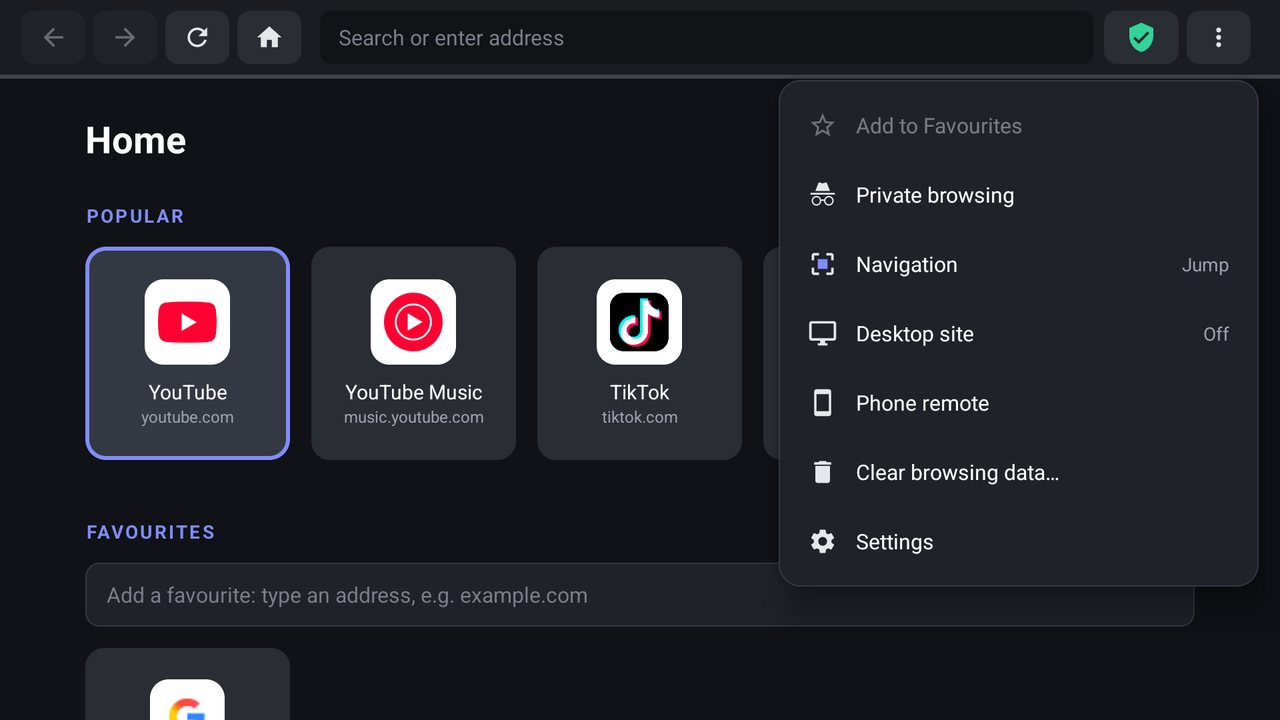
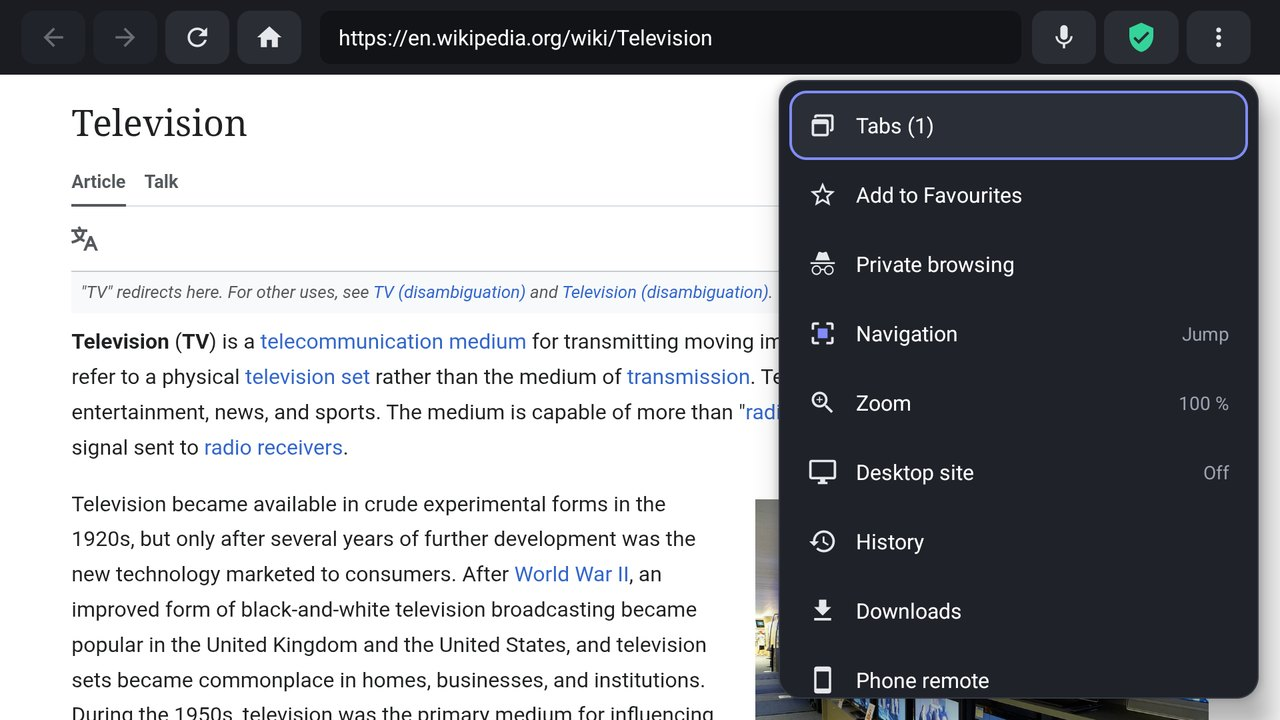
mkTV 1.2.0: tabs, downloads, zoom and favourites cards; new screenshots; phone remote safety FAQ

diff --git a/index.html b/index.html
@@ -39,19 +39,19 @@
     {
       "@type": "SoftwareApplication",
       "name": "mkTV",
-      "description": "Open-source web browser for Android TV and Google TV with ad and tracker blocking, D-pad jump navigation, full-screen watch mode, YouTube TV mode, private browsing and a QR-code phone remote.",
+      "description": "Open-source web browser for Android TV and Google TV with ad and tracker blocking, D-pad jump navigation, tabs, downloads, per-site zoom, full-screen watch mode, YouTube TV mode, private browsing and a QR-code phone remote.",
       "applicationCategory": "BrowserApplication",
       "operatingSystem": "Android TV, Google TV (Android 7.0 or newer)",
       "url": "https://mktvhub.github.io/",
       "downloadUrl": "https://github.com/MKTVHub/mkTV/releases/latest/download/mkTV.apk",
-      "softwareVersion": "1.0.1",
-      "fileSize": "4.7 MB",
+      "softwareVersion": "1.2.0",
+      "fileSize": "5 MB",
       "codeRepository": "https://github.com/MKTVHub/mkTV",
       "license": "https://www.apache.org/licenses/LICENSE-2.0",
       "isAccessibleForFree": true,
       "offers": { "@type": "Offer", "price": "0", "priceCurrency": "USD" },
       "image": "https://mktvhub.github.io/assets/og.png",
-      "screenshot": ["https://mktvhub.github.io/assets/screens/home.jpg", "https://mktvhub.github.io/assets/screens/jump-navigation.jpg", "https://mktvhub.github.io/assets/screens/watch-mode.jpg", "https://mktvhub.github.io/assets/screens/ad-blocker.jpg", "https://mktvhub.github.io/assets/screens/phone-remote-qr.jpg"],
+      "screenshot": ["https://mktvhub.github.io/assets/screens/home.jpg", "https://mktvhub.github.io/assets/screens/jump-navigation.jpg", "https://mktvhub.github.io/assets/screens/tabs.jpg", "https://mktvhub.github.io/assets/screens/watch-mode.jpg", "https://mktvhub.github.io/assets/screens/ad-blocker.jpg", "https://mktvhub.github.io/assets/screens/downloads.jpg", "https://mktvhub.github.io/assets/screens/phone-remote-qr.jpg", "https://mktvhub.github.io/assets/screens/settings.jpg", "https://mktvhub.github.io/assets/screens/zoom.jpg"],
       "publisher": { "@id": "https://mktvhub.github.io/#org" }
     },
     {
@@ -70,15 +70,17 @@
         { "@type": "Question", "name": "What is the best way to browse the web on Android TV?",
           "acceptedAnswer": { "@type": "Answer", "text": "Use a browser designed for the remote. In mkTV the arrow keys jump between links, buttons and videos, so there is no slow mouse pointer, and you can type on your phone instead of the on-screen keyboard." } },
         { "@type": "Question", "name": "Does mkTV block ads?",
-          "acceptedAnswer": { "@type": "Answer", "text": "Yes. mkTV blocks more than 77,000 known ad and tracker domains, removes pop-ups and click-trap overlays, and strips tracking codes from links. On YouTube it removes ad slots and skips video ads where it can, but no ad blocker catches every ad." } },
+          "acceptedAnswer": { "@type": "Answer", "text": "Yes. mkTV blocks more than 77,000 known ad and tracker domains, removes pop-ups and click-trap overlays, and strips tracking codes from links. On YouTube it removes ad slots and skips video ads where it can, but no ad blocker catches every ad. You can turn on more blocklists, such as OISD or HaGeZi, or add your own." } },
         { "@type": "Question", "name": "Can I use my phone as a remote and keyboard for my TV browser?",
           "acceptedAnswer": { "@type": "Answer", "text": "Yes. Open the ⋮ menu in mkTV, choose Phone remote and scan the QR code. Your phone's browser becomes a D-pad, media remote and keyboard. No app install is needed; both devices must be on the same Wi-Fi." } },
         { "@type": "Question", "name": "Is mkTV free?",
           "acceptedAnswer": { "@type": "Answer", "text": "Yes. mkTV is free and open source under the Apache 2.0 license, with no accounts, no analytics and no ads of its own." } },
         { "@type": "Question", "name": "Does mkTV work on Fire TV, LG or Samsung TVs?",
           "acceptedAnswer": { "@type": "Answer", "text": "mkTV runs on Android TV and Google TV. Fire TV runs Android and may work by sideloading, but it is untested. LG webOS and Samsung Tizen ports are planned and open to contributors." } },
+        { "@type": "Question", "name": "Is the phone remote safe?",
+          "acceptedAnswer": { "@type": "Answer", "text": "The remote needs the pairing code from the TV's QR code, and it only reaches the TV from the same network, so use it on your home Wi-Fi, not guest or public Wi-Fi. The Devices tab in Phone remote shows which phones are connected and can disconnect one. New code unpairs every phone at once." } },
         { "@type": "Question", "name": "The phone remote says \"This site can't be reached\". What do I do?",
-          "acceptedAnswer": { "@type": "Answer", "text": "Put the phone on the same Wi-Fi as the TV, turn off mobile data and any VPN or ad blocker on the phone, and scan the QR code that is on the TV now, because it changes each time mkTV restarts. Some routers, often on guest networks, stop Wi-Fi devices from seeing each other." } },
+          "acceptedAnswer": { "@type": "Answer", "text": "Put the phone on the same Wi-Fi as the TV, turn off mobile data and any VPN or ad blocker on the phone, and scan the QR code that is on the TV now. After New code, old links stop working. Some routers, often on guest networks, stop Wi-Fi devices from seeing each other." } },
         { "@type": "Question", "name": "Chrome switches the phone remote link to https. What do I do?",
           "acceptedAnswer": { "@type": "Answer", "text": "Tap Continue to site, or turn off Always use secure connections in Chrome's settings. mkTV refuses https on purpose, so the browser falls back to http." } },
         { "@type": "Question", "name": "Does mkTV work with a VPN on the TV?",
@@ -252,9 +254,9 @@
         <a class="btn primary" href="https://github.com/MKTVHub/mkTV/releases/latest/download/mkTV.apk"><svg viewBox="0 0 24 24" width="18" height="18" fill="none" stroke="currentColor" stroke-width="2.2" stroke-linecap="round" stroke-linejoin="round" aria-hidden="true"><path d="M12 3v12M7 10l5 5 5-5M4 20h16"/></svg>Download APK</a>
         <a class="btn secondary" href="https://github.com/MKTVHub/mkTV"><span aria-hidden="true">★</span> Star on GitHub<span class="stars" hidden></span></a>
       </div>
-      <p class="meta">Version 1.0.1 · 4.7 MB · Android 7.0+</p>
+      <p class="meta">Version 1.2.0 · 5 MB · Android 7.0+</p>
     </div>
-    <div class="tv"><img src="assets/screens/home.jpg" width="1280" height="720" fetchpriority="high" alt="mkTV home screen on a Google TV with big tiles for YouTube, YouTube Music, TikTok, Twitch and Dailymotion"></div>
+    <div class="tv"><img src="assets/screens/home.jpg" width="1280" height="720" fetchpriority="high" alt="mkTV home screen on a Google TV: the mkTV logo, Phone remote, History and Private browsing buttons, and Popular tiles for YouTube, Netflix, Prime Video, Disney+, Spotify, YouTube Music, Twitch and TikTok"></div>
   </div>
 </section>
 
@@ -275,11 +277,14 @@
     <p class="sub">Websites expect a mouse. mkTV makes them work with a remote.</p>
     <ul class="features">
       <li class="feature"><svg viewBox="0 0 24 24" fill="none" stroke="currentColor" stroke-width="2" stroke-linecap="round" stroke-linejoin="round" aria-hidden="true"><rect x="3" y="3" width="18" height="18" rx="3"/><path d="M8 12h8M13 9l3 3-3 3"/></svg><h3>Jump navigation</h3><p>Arrow keys jump straight to the next link or button.</p></li>
-      <li class="feature"><svg viewBox="0 0 24 24" fill="none" stroke="currentColor" stroke-width="2" stroke-linecap="round" stroke-linejoin="round" aria-hidden="true"><path d="M12 3l8 3v6c0 4.5-3.4 8.2-8 9-4.6-.8-8-4.5-8-9V6z"/><path d="M8.5 12l2.5 2.5 4.5-5"/></svg><h3>Ads blocked</h3><p>Ads, trackers, pop-ups and click-traps, gone.</p></li>
-      <li class="feature"><svg viewBox="0 0 24 24" fill="none" stroke="currentColor" stroke-width="2" stroke-linecap="round" stroke-linejoin="round" aria-hidden="true"><rect x="2" y="4" width="20" height="14" rx="2.5"/><path d="M10 8.5v5l4-2.5z"/><path d="M8 21h8"/></svg><h3>Full-screen watch mode</h3><p>When a video plays, the remote controls it.</p></li>
-      <li class="feature"><svg viewBox="0 0 24 24" fill="none" stroke="currentColor" stroke-width="2" stroke-linecap="round" stroke-linejoin="round" aria-hidden="true"><rect x="6" y="2" width="12" height="20" rx="2.5"/><path d="M11 18h2"/></svg><h3>Phone as remote</h3><p>Scan a QR code to type and tap from your phone.</p></li>
+      <li class="feature"><svg viewBox="0 0 24 24" fill="none" stroke="currentColor" stroke-width="2" stroke-linecap="round" stroke-linejoin="round" aria-hidden="true"><path d="M12 3l8 3v6c0 4.5-3.4 8.2-8 9-4.6-.8-8-4.5-8-9V6z"/><path d="M8.5 12l2.5 2.5 4.5-5"/></svg><h3>Ads blocked</h3><p>Ads, trackers and pop-ups gone. Add more blocklists if you like.</p></li>
+      <li class="feature"><svg viewBox="0 0 24 24" fill="none" stroke="currentColor" stroke-width="2" stroke-linecap="round" stroke-linejoin="round" aria-hidden="true"><rect x="2" y="4" width="20" height="14" rx="2.5"/><path d="M10 8.5v5l4-2.5z"/><path d="M8 21h8"/></svg><h3>Full-screen watch mode</h3><p>Video fills the TV, and the remote controls it.</p></li>
+      <li class="feature"><svg viewBox="0 0 24 24" fill="none" stroke="currentColor" stroke-width="2" stroke-linecap="round" stroke-linejoin="round" aria-hidden="true"><rect x="6" y="2" width="12" height="20" rx="2.5"/><path d="M11 18h2"/></svg><h3>Phone as remote</h3><p>Scan a QR code for a touchpad, keyboard and volume.</p></li>
+      <li class="feature"><svg viewBox="0 0 24 24" fill="none" stroke="currentColor" stroke-width="2" stroke-linecap="round" stroke-linejoin="round" aria-hidden="true"><rect x="3" y="7" width="14" height="13" rx="2.5"/><path d="M7 4h11a3 3 0 0 1 3 3v9"/></svg><h3>Tabs</h3><p>Pop-ups you click open in a new tab, not over your page.</p></li>
+      <li class="feature"><svg viewBox="0 0 24 24" fill="none" stroke="currentColor" stroke-width="2" stroke-linecap="round" stroke-linejoin="round" aria-hidden="true"><path d="M12 3v12M7 10l5 5 5-5"/><path d="M4 20h16"/></svg><h3>Downloads</h3><p>Save files, install APKs and play videos you download.</p></li>
+      <li class="feature"><svg viewBox="0 0 24 24" fill="none" stroke="currentColor" stroke-width="2" stroke-linecap="round" stroke-linejoin="round" aria-hidden="true"><circle cx="11" cy="11" r="7"/><path d="M21 21l-5-5M11 8v6M8 11h6"/></svg><h3>Zoom per site</h3><p>Make any site bigger; mkTV remembers it.</p></li>
+      <li class="feature"><svg viewBox="0 0 24 24" fill="none" stroke="currentColor" stroke-width="2" stroke-linecap="round" stroke-linejoin="round" aria-hidden="true"><path d="M3 7a2 2 0 0 1 2-2h4l2 2h8a2 2 0 0 1 2 2v8a2 2 0 0 1-2 2H5a2 2 0 0 1-2-2z"/></svg><h3>Favourites your way</h3><p>Rename, reorder and group sites into folders.</p></li>
       <li class="feature"><svg viewBox="0 0 24 24" fill="none" stroke="currentColor" stroke-width="2" stroke-linecap="round" stroke-linejoin="round" aria-hidden="true"><rect x="4" y="10" width="16" height="11" rx="2.5"/><path d="M8 10V7a4 4 0 0 1 8 0v3"/></svg><h3>Private browsing</h3><p>A separate session, erased when you close it.</p></li>
-      <li class="feature"><svg viewBox="0 0 24 24" fill="none" stroke="currentColor" stroke-width="2" stroke-linecap="round" stroke-linejoin="round" aria-hidden="true"><path d="M3 12a9 9 0 1 0 3-6.7L3 8"/><path d="M3 3v5h5"/><path d="M12 7v5l3 2"/></svg><h3>History and updates</h3><p>Find any page again; new versions install in one press.</p></li>
     </ul>
   </div>
 </section>
@@ -289,12 +294,15 @@
     <h2 id="screens-title">See it on a real TV</h2>
     <p class="sub">Unedited screenshots from a Google TV.</p>
     <ul class="gallery">
+      <li><a href="assets/screens/home.jpg"><img src="assets/screens/home.jpg" width="1280" height="720" loading="lazy" alt="mkTV home screen with the mkTV logo, a soft violet glow, Popular tiles and Favourites"></a><p>Home</p></li>
       <li><a href="assets/screens/jump-navigation.jpg"><img src="assets/screens/jump-navigation.jpg" width="1280" height="720" loading="lazy" alt="mkTV jump navigation highlighting a link on a Wikipedia article"></a><p>Jump navigation</p></li>
+      <li><a href="assets/screens/tabs.jpg"><img src="assets/screens/tabs.jpg" width="1280" height="720" loading="lazy" alt="mkTV tab switcher open over a Wikipedia page, listing two tabs with close buttons and New tab"></a><p>Tabs</p></li>
       <li><a href="assets/screens/watch-mode.jpg"><img src="assets/screens/watch-mode.jpg" width="1280" height="720" loading="lazy" alt="mkTV watch mode dock over a playing video"></a><p>Watch mode</p></li>
       <li><a href="assets/screens/ad-blocker.jpg"><img src="assets/screens/ad-blocker.jpg" width="1280" height="720" loading="lazy" alt="mkTV ad blocker panel showing ads and trackers blocked on a website"></a><p>Ad blocker</p></li>
-      <li><a href="assets/screens/phone-remote-qr.jpg"><img src="assets/screens/phone-remote-qr.jpg" width="1280" height="720" loading="lazy" alt="mkTV phone remote pairing screen with a QR code"></a><p>Phone remote</p></li>
-      <li><a href="assets/screens/private-browsing.jpg"><img src="assets/screens/private-browsing.jpg" width="1280" height="720" loading="lazy" alt="mkTV private browsing screen"></a><p>Private browsing</p></li>
-      <li><a href="assets/screens/menu.jpg"><img src="assets/screens/menu.jpg" width="1280" height="720" loading="lazy" alt="mkTV menu with Add to Favourites, Private browsing, Navigation, Desktop site, Phone remote and Settings"></a><p>Menu</p></li>
+      <li><a href="assets/screens/downloads.jpg"><img src="assets/screens/downloads.jpg" width="1280" height="720" loading="lazy" alt="mkTV Downloads list with a downloaded PDF and Remove and Delete buttons"></a><p>Downloads</p></li>
+      <li><a href="assets/screens/phone-remote-qr.jpg"><img src="assets/screens/phone-remote-qr.jpg" width="1280" height="720" loading="lazy" alt="mkTV Phone remote panel with a QR code carrying the mkTV logo, Connect and Devices tabs, and a New code button"></a><p>Phone remote</p></li>
+      <li><a href="assets/screens/settings.jpg"><img src="assets/screens/settings.jpg" width="1280" height="720" loading="lazy" alt="mkTV Settings with a sidebar of sections and the Protection section open"></a><p>Settings</p></li>
+      <li><a href="assets/screens/zoom.jpg"><img src="assets/screens/zoom.jpg" width="1280" height="720" loading="lazy" alt="mkTV Zoom panel set to 110 percent, remembered for en.wikipedia.org"></a><p>Zoom</p></li>
     </ul>
     <p class="credits">Example content: Wikipedia (CC BY-SA), Merriam-Webster, and "Big Buck Bunny" © Blender Foundation (CC BY 3.0). Site names and logos belong to their owners; mkTV is not affiliated with them.</p>
   </div>
@@ -317,11 +325,12 @@
     <h2 id="faq-title">Questions</h2>
     <p class="sub">Help with setup and the phone remote.</p>
     <details><summary>What is the best way to browse the web on Android TV?</summary><p>Use a browser designed for the remote. In mkTV the arrow keys jump between links, buttons and videos, so there is no slow mouse pointer, and you can type on your phone instead of the on-screen keyboard.</p></details>
-    <details><summary>Does mkTV block ads?</summary><p>Yes. mkTV blocks more than 77,000 known ad and tracker domains, removes pop-ups and click-trap overlays, and strips tracking codes from links. On YouTube it removes ad slots and skips video ads where it can, but no ad blocker catches every ad.</p></details>
+    <details><summary>Does mkTV block ads?</summary><p>Yes. mkTV blocks more than 77,000 known ad and tracker domains, removes pop-ups and click-trap overlays, and strips tracking codes from links. On YouTube it removes ad slots and skips video ads where it can, but no ad blocker catches every ad. You can turn on more blocklists, such as OISD or HaGeZi, or add your own.</p></details>
     <details><summary>Can I use my phone as a remote and keyboard for my TV browser?</summary><p>Yes. Open the ⋮ menu in mkTV, choose Phone remote and scan the QR code. Your phone's browser becomes a D-pad, media remote and keyboard. No app install is needed; both devices must be on the same Wi-Fi.</p></details>
     <details><summary>Is mkTV free?</summary><p>Yes. mkTV is free and open source under the Apache 2.0 license, with no accounts, no analytics and no ads of its own.</p></details>
     <details><summary>Does mkTV work on Fire TV, LG or Samsung TVs?</summary><p>mkTV runs on Android TV and Google TV. Fire TV runs Android and may work by sideloading, but it is untested. LG webOS and Samsung Tizen ports are planned and open to contributors.</p></details>
-    <details><summary>The phone remote says "This site can't be reached". What do I do?</summary><p>Put the phone on the same Wi-Fi as the TV, turn off mobile data and any VPN or ad blocker on the phone, and scan the QR code that is on the TV now, because it changes each time mkTV restarts. Some routers, often on guest networks, stop Wi-Fi devices from seeing each other.</p></details>
+    <details><summary>Is the phone remote safe?</summary><p>The remote needs the pairing code from the TV's QR code, and it only reaches the TV from the same network, so use it on your home Wi-Fi, not guest or public Wi-Fi. The Devices tab in Phone remote shows which phones are connected and can disconnect one. New code unpairs every phone at once.</p></details>
+    <details><summary>The phone remote says "This site can't be reached". What do I do?</summary><p>Put the phone on the same Wi-Fi as the TV, turn off mobile data and any VPN or ad blocker on the phone, and scan the QR code that is on the TV now. After New code, old links stop working. Some routers, often on guest networks, stop Wi-Fi devices from seeing each other.</p></details>
     <details><summary>Chrome switches the phone remote link to https. What do I do?</summary><p>Tap Continue to site, or turn off Always use secure connections in Chrome's settings. mkTV refuses https on purpose, so the browser falls back to http.</p></details>
     <details><summary>Does mkTV work with a VPN on the TV?</summary><p>Yes. Most VPNs keep your home network outside the tunnel, so the phone remote keeps working. If the Phone remote screen shows a VPN warning, turn on Allow LAN or local network access in the VPN app, or exclude mkTV with split tunneling.</p></details>
     <details><summary>Why doesn't Share Wi-Fi show my network name?</summary><p>Android only reveals the Wi-Fi name to apps allowed to use location, and only while Location is turned on in the TV settings. You can also type the name once and mkTV remembers it.</p></details>
